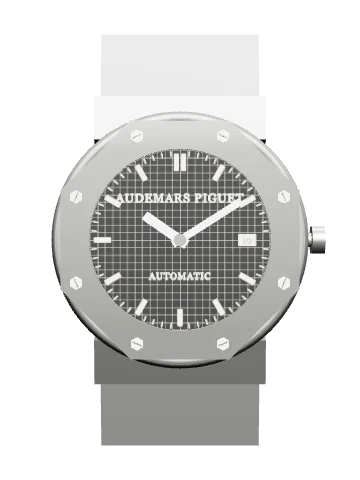
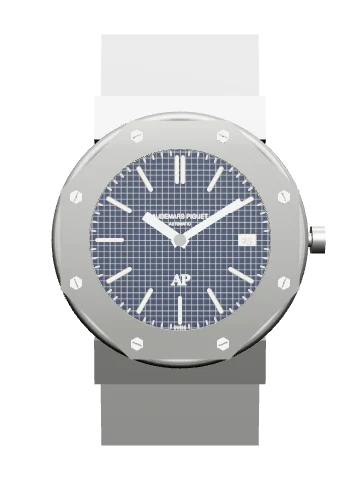
Royal Oak 5402 front checked against the maker's photographs: blue-grey dial, lettering above centre, AP above six, Swiss at the foot, slim rounded bars, finer tapisserie

Changed region(s): [[0.2444, 0.3125, 0.7639, 0.6875]]

diff --git a/draw.js b/draw.js
@@ -234,6 +234,9 @@ function markers(w, g, skip) {
       for (let i = 0; i < 300; i++) { const a = i * 1.2, r = E(a) - 0.2; s += i % 5 ? rad(a, r - 0.45, r, 'hair') : rad(a, r - 0.8, r, 't'); }
       for (let h = 1; h < 12; h++) { const p = P(h * 30, E(h * 30) - 1.35); s += C(0.22, p[0], p[1], 'p'); if (h % 3) s += bat(h, 2.7, 0.7, 'p ap', 1.85); }
       break;
+    case 'royaloak': { // the first Royal Oak's dial, from Audemars Piguet's own photographs: long slim applied bars with rounded ends, two side by side at twelve, and none at three, where the date is
+      s += ticks(0.7, 0.2); const rb = (h, dx) => `<rect class="p" x="${f(dx - 0.3)}" y="${f(-R0 + 0.95)}" width="0.6" height="4.3" rx="0.3" transform="rotate(${h * 30})"/>`;
+      each(h => h ? rb(h, 0) : rb(0, -0.45) + rb(0, 0.45)); break; }
     case 'baton': s += ticks(); each(h => h === 0 ? dbl(2.6, 0.8) : bat(h, 2.6, 0.8)); break;
     case 'block': s += ticks(); each(h => h === 0 ? dbl(2.8, 1.3) : bat(h, 2.6, 1.7)); break;
     case 'sm300': { // the early dial of the Seamaster 300 165.024, from photographs: a long printed mark at every minute, eight long luminous bars that taper a little toward the centre, and at 12, 3, 6 and 9 a figure with a small luminous block outside it
@@ -386,6 +389,7 @@ function dtext(w, g, o) {
       s += Pa(polyD([[f(-u * 0.14), f(y0 - u * 0.12)], [f(u * 0.14), f(y0 - u * 0.12)], [f(u * 0.14), f(y0 + u * 0.08)], [0, f(y0 + u * 0.2)], [f(-u * 0.14), f(y0 + u * 0.08)]]), 'p wg'); }
     if (q.split) q.split.forEach((t, i) => { const p = P(180 + (i ? -13 : 13), (g.inR || R0) - 1.0); s += T(t, p[0], p[1], R0 * 0.04, 'tx dl', `${sans} transform="rotate(${i ? -13 : 13} ${f(p[0])} ${f(p[1])})"`); }); // two words at the foot, one each side of the lower register
     if (q.star != null) s += star(0, R0 * q.star, R0 * 0.05);
+    if (q.mono) s += T(q.mono[0], 0, R0 * q.mono[1], R0 * 0.16, 'tx nm', 'style="font-family:Georgia,serif;font-weight:bold" letter-spacing="-.12em"'); // an applied monogram, shown as its two letters set close; the real one interlocks them
     if (q.crown != null) { const u = R0 * 0.075, y0 = R0 * q.crown; s += Pa(polyD([[-.55, 0], [-.95, -.7], [-.45, -.32], [-.5, -.98], [-.12, -.38], [0, -1.12], [.12, -.38], [.5, -.98], [.45, -.32], [.95, -.7], [.55, 0]].map(p => [f(p[0] * u), f(y0 + p[1] * u)])), 'k dl') + [[-.95, -.7], [-.5, -.98], [0, -1.12], [.5, -.98], [.95, -.7]].map(p => C(u * 0.1, p[0] * u, y0 + p[1] * u, 'k dl')).join('') + RC(-0.55 * u, y0 + 0.08 * u, 1.1 * u, 0.12 * u, 'k dl'); }
     q.lines.forEach(l => { s += T(l[0].replace(/&/g, '&amp;'), 0, R0 * l[1], R0 * l[2], 'tx dl', l[3] === 2 ? 'style="font-style:italic"' : l[3] ? sans : 'letter-spacing=".06em"'); }); // 2: a script line, approximated in italic
     if (q.foot) s += T(q.foot, 0, q.footY ? R0 * q.footY : R0 - 0.12, R0 * 0.042, 'tx dl', sans);
@@ -445,7 +449,7 @@ const handsAt = (w, g) => w.dial.handsAt ? `<g transform="translate(${w.dial.han
 function dial(w, g, o) {
   if (w.dial.custom === 'gyro3') return gyro3(w, g, o);
   const d = w.dial; let s = Pa(g.dial, d.dark ? 'tn db' : 'p');
-  if (d.tapisserie) { const id = 'u' + (++uid); s += `<defs><pattern id="${id}" width="1.15" height="1.15" patternUnits="userSpaceOnUse"><path class="hair" d="M0,0H1.15M0,0V1.15"/></pattern></defs><path d="${g.dial}" fill="url(#${id})" stroke="none"/>`; }
+  if (d.tapisserie) { const id = 'u' + (++uid); s += `<defs><pattern id="${id}" width="0.9" height="0.9" patternUnits="userSpaceOnUse"><path class="hair" d="M0,0H0.9M0,0V0.9"/></pattern></defs><path d="${g.dial}" fill="url(#${id})" stroke="none"/>`; }
   if (d.flange) {
     const r = g.inR; s += C(r, 0, 0, 'l');
     if (d.flange === 'a386') { /* the two rings round the El Primero A386's dial, read from Phillips' photograph of an example of about 1969. Outside, a pale ring with the tachymeter:

diff --git a/workbench/watches/royal-oak-5402.js b/workbench/watches/royal-oak-5402.js
@@ -61,7 +61,7 @@ export default {
       significance: 'Leaving the fixings on show, and making them the decoration, was the design’s boldest idea.', related: ['crystal', 'case', 'caseback'] },
     { id: 'dial', name: 'Dial', group: 'Exterior', status: 'D', anchor: [-6, 4, 2.4], face: 1,
       beginner: 'The dark dial with baton markers and a date window. On the real watch its surface is covered in a grid of tiny raised squares.',
-      horologist: 'A “petite tapisserie” dial: a guilloché pattern of small squares cut by machine, with applied baton markers and a date at 3. The model shows the pattern only as a flat texture.',
+      horologist: 'A “petite tapisserie” dial in a dark blue-grey: a guilloché pattern of small squares cut by machine, about thirty across the dial. AUDEMARS PIGUET and AUTOMATIC are printed above the centre, the applied AP monogram stands above six, where the first series carried it, and SWISS is at the foot. Long slim applied bars with rounded ends mark the hours, two at twelve and none at three, where the date shows on a white disc. The lettering and marks are placed from Audemars Piguet’s own photographs; the monogram is shown as two plain letters, the typefaces are approximations, and the blue is judged from photographs. The model shows the pattern only as a flat texture.',
       fn: 'Displays hours, minutes and date.', material: 'Metal dial, applied markers',
       significance: 'The pattern catches light the way the brushed steel does, so the dial and case read as one object.', related: ['hands'] },
     { id: 'hands', name: 'Hands', group: 'Exterior', status: 'D', anchor: [3, 7, 3.0], face: 1,

diff --git a/data.js b/data.js
@@ -159,7 +159,7 @@ window.WATCHES = [
 {
   id:'royaloak', brand:'Audemars Piguet', model:'Royal Oak', ref:'5402', year:'1972', span:'1972 – c. 1990', kind:'Luxury sports watch',
   c:{shape:'octagon', d:39, t:[7,'v'], lug:null},
-  dial:{dark:true, markers:'baton', tapisserie:true, date:3, text:['AUDEMARS PIGUET','AUTOMATIC']},
+  dial:{dark:true, blue:'#0f1c33', markers:'royaloak', tapisserie:true, date:3, text:['AUDEMARS PIGUET','AUTOMATIC'], set:{lines:[['AUDEMARS PIGUET',-0.24,0.062,1],['AUTOMATIC',-0.165,0.04,1]], mono:['AP',0.5], foot:'SWISS'}},
   hands:'baton', sec:'none', crown:{pos:3, hex:true}, strap:'integrated',
   mv:{cal:'2121', type:'auto', vph:19800, wind:'Automatic, full rotor', size:'28.4 mm × 3.05 mm', note:'Extra-thin automatic derived from the Jaeger-LeCoultre cal. 920.'},
   back:{type:'bolts', note:'Eight nuts receive the bolts that pass down through bezel, gasket and case.'},
